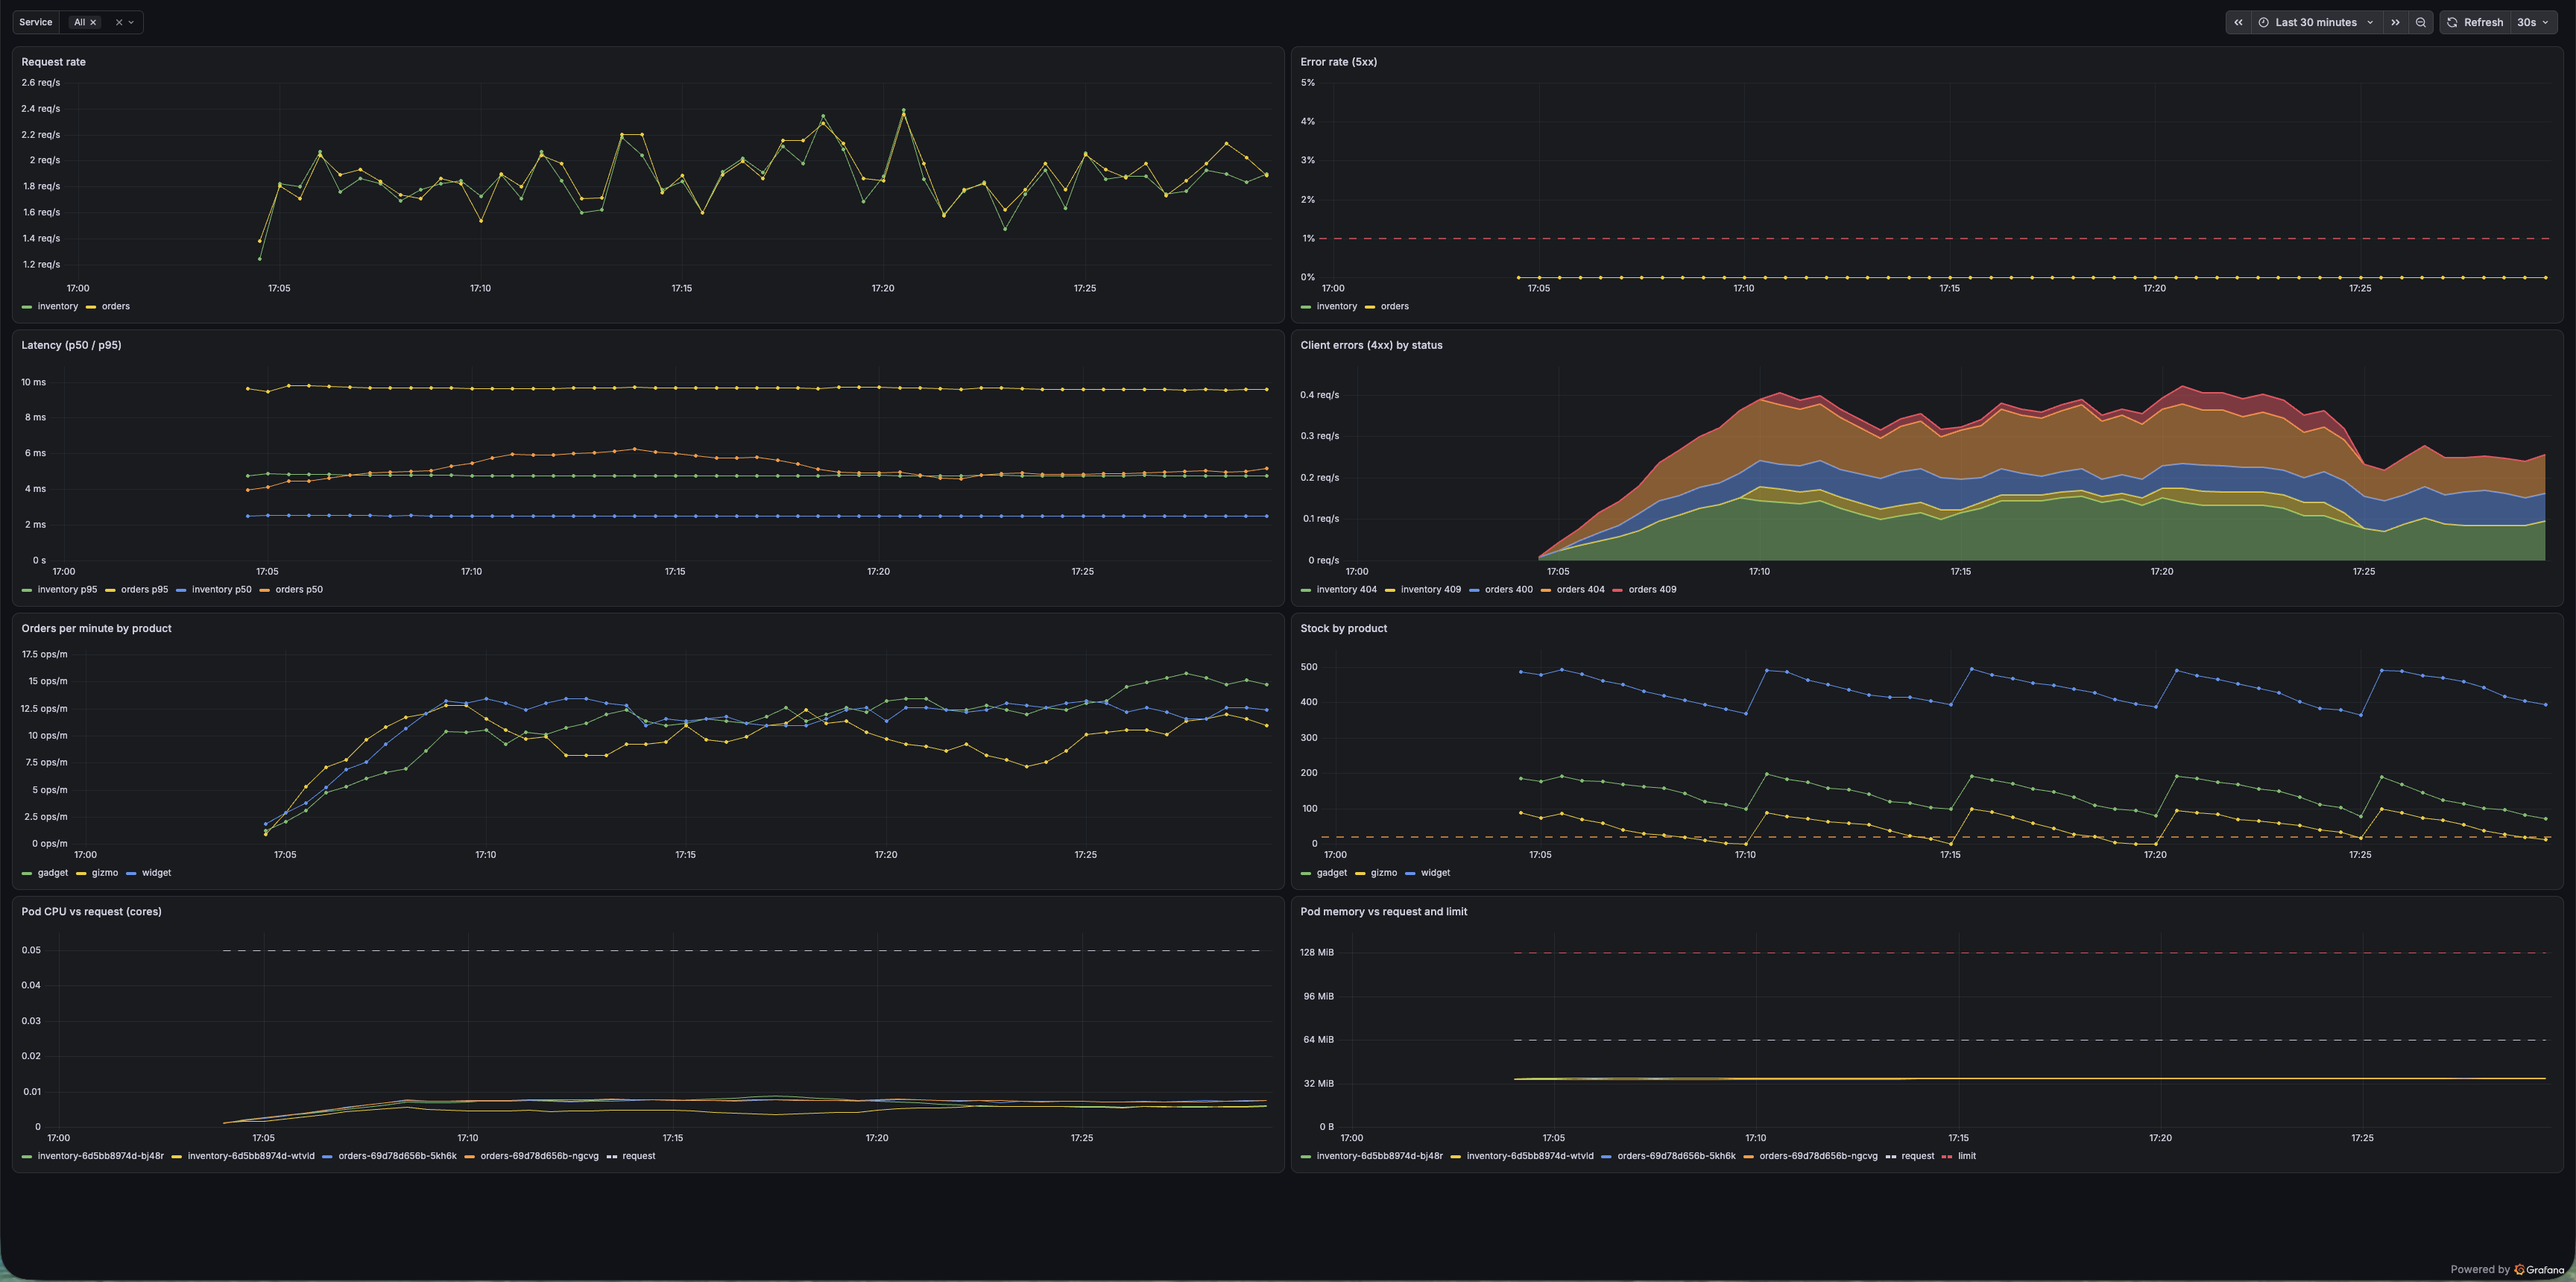
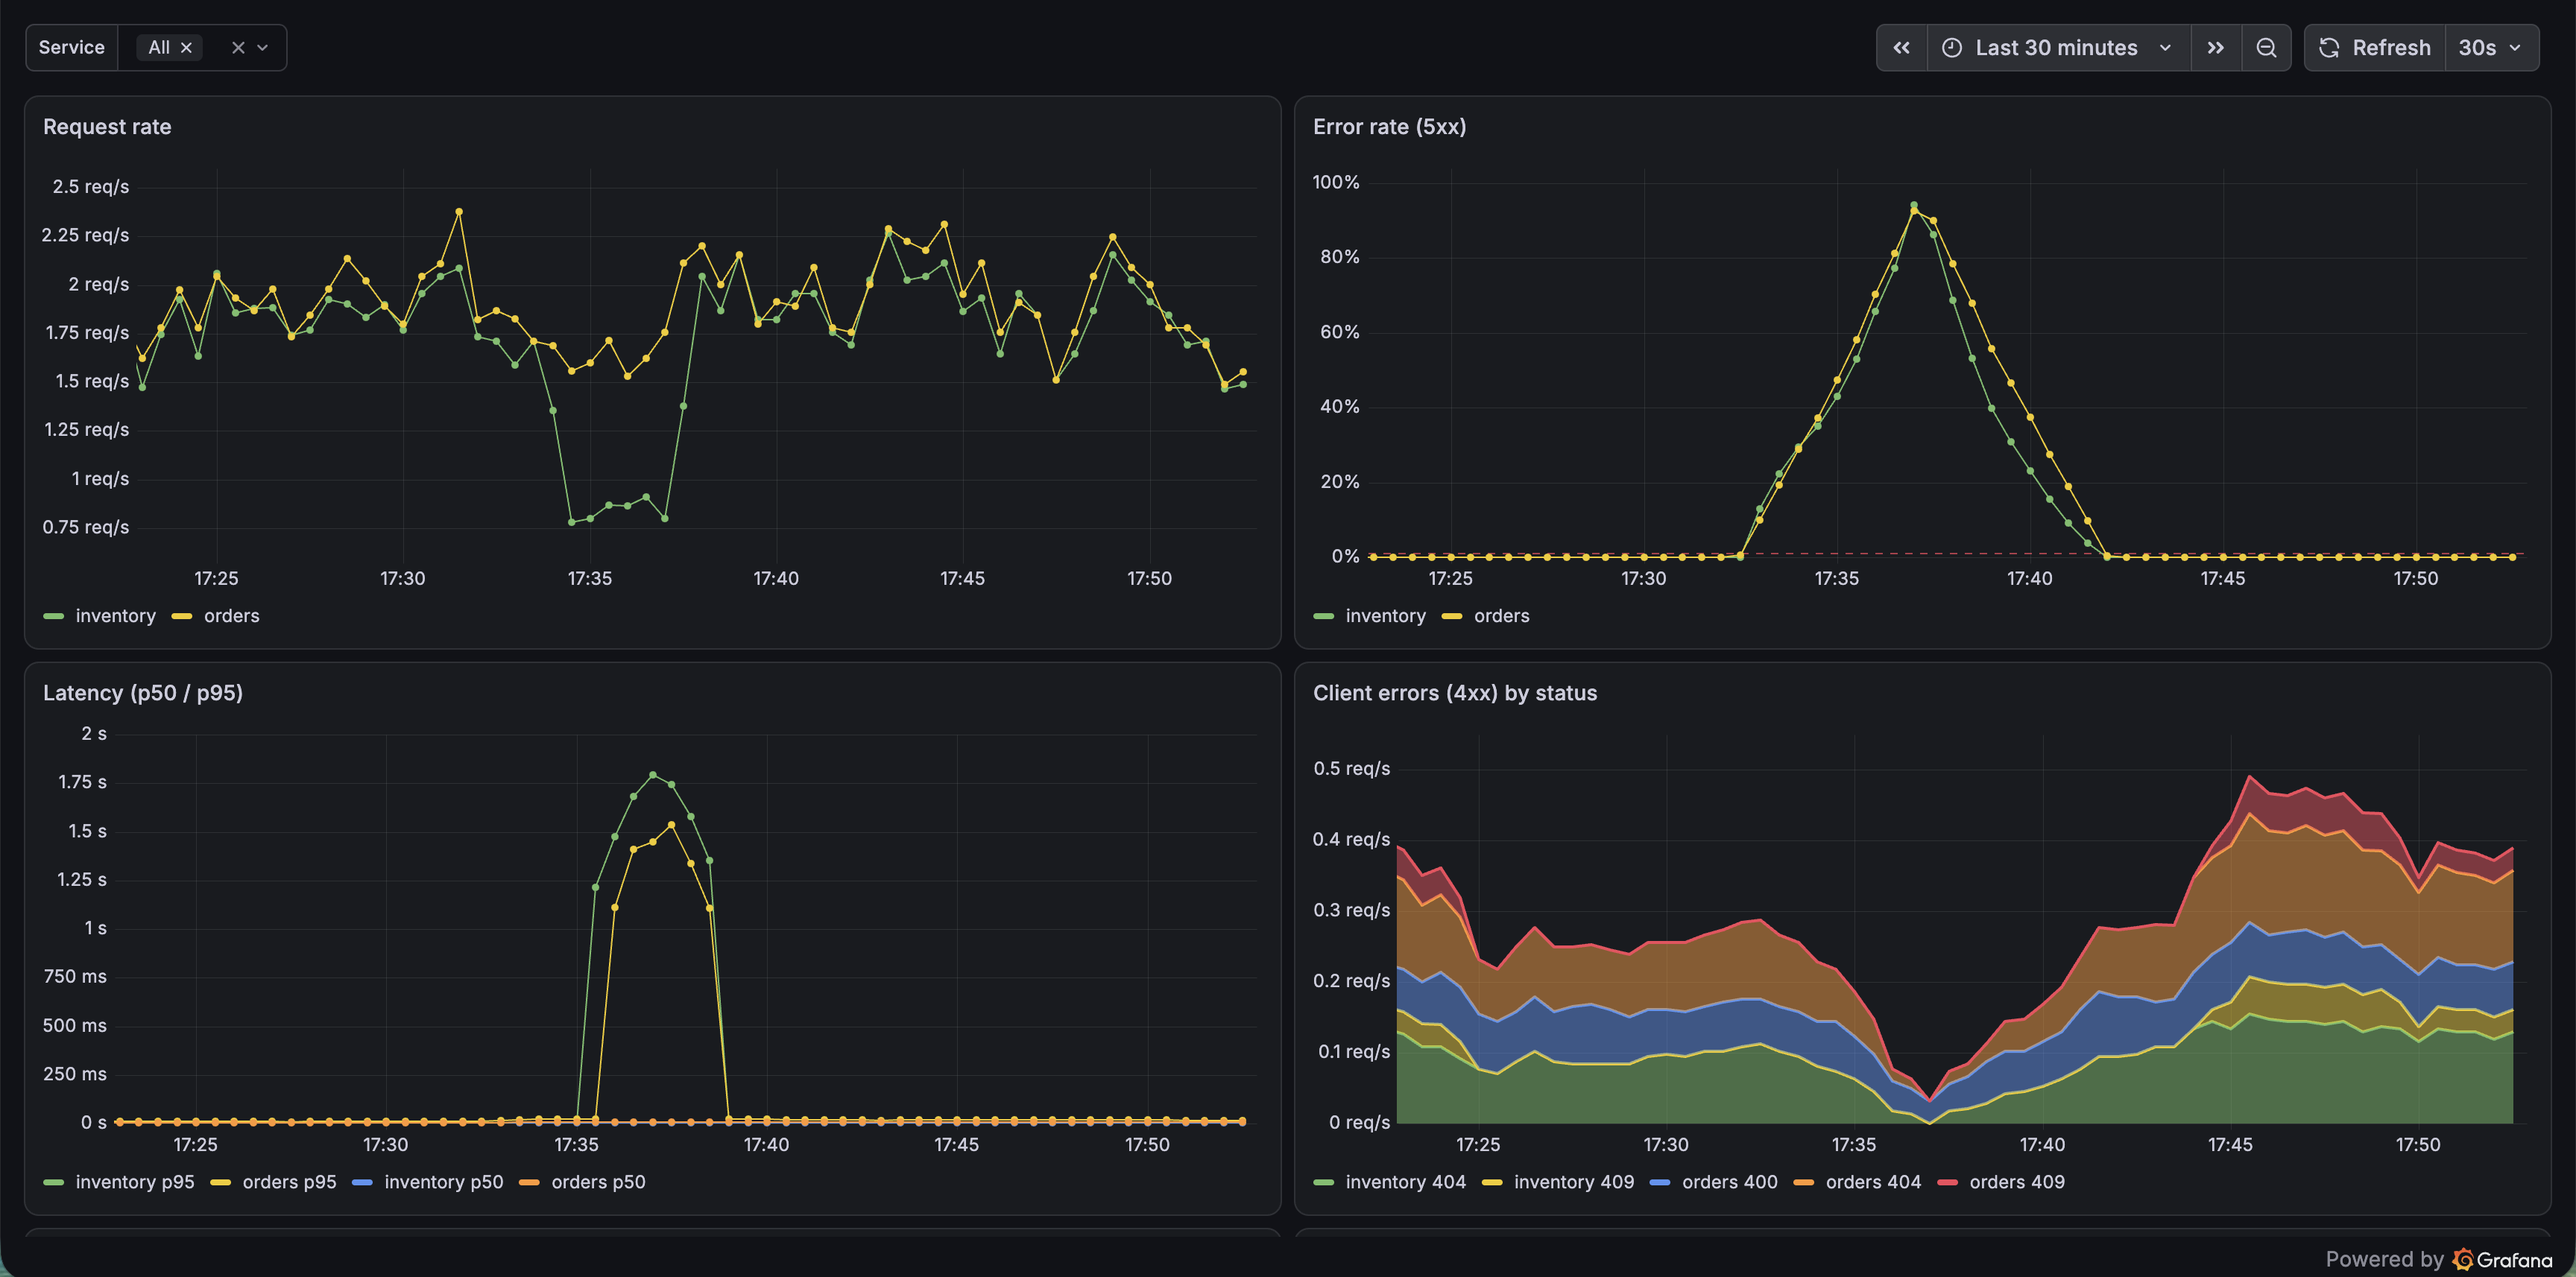
Readable screenshots, compact diagram, and corrected outage findings

diff --git a/README.md b/README.md
@@ -8,43 +8,30 @@ It runs on a local kind cluster: four apps (an orders API, an inventory service,
 
 The services expose RED metrics (rate, errors, duration) and business metrics, the load generator keeps realistic traffic flowing, and a Grafana dashboard shows service health, stock levels and each pod's resource use against its requests and limits. The whole stack comes up from a fresh clone with `make up`.
 
-![Shop service overview dashboard](docs/images/dashboard.png)
+![RED panels from the shop dashboard, including a Redis outage at 17:33](docs/images/dashboard.png)
 
 ## Architecture
 
 ```mermaid
-flowchart TB
-  subgraph monitoring["namespace: monitoring"]
-    dash["dashboard ConfigMap"] -.->|loaded by sidecar| grafana["Grafana"]
-    grafana -->|PromQL| prom["Prometheus"]
-    operator["Prometheus Operator"] -.->|scrape config| prom
-    ksm["kube-state-metrics"]
-    ne["node-exporter<br/>DaemonSet"]
-  end
-
+flowchart LR
   subgraph shop["namespace: shop"]
-    loadgen["loadgen<br/>Deployment"] -->|HTTP| orders["orders API<br/>Deployment ×2"]
-    restock["restock<br/>CronJob, every 5 min"]
-    orders -->|HTTP| inventory["inventory<br/>Deployment ×2"]
-    restock -->|POST /restock| inventory
-    inventory --> redis[("Redis<br/>Deployment")]
-    sm["ServiceMonitor"]
+    loadgen --> orders["orders ×2"] --> inventory["inventory ×2"] --> redis[(Redis)]
+    restock["restock CronJob"] --> inventory
+    sm[ServiceMonitor]
   end
 
-  subgraph node["every node"]
-    kubelet["kubelet<br/>with cAdvisor"]
+  subgraph monitoring["namespace: monitoring"]
+    grafana[Grafana] --> prom[Prometheus]
   end
 
-  sm -.->|read by| operator
-  prom -->|scrapes /metrics| orders
-  prom -->|scrapes /metrics| inventory
-  prom -->|scrapes| ksm
-  prom -->|scrapes| ne
-  prom -->|scrapes| kubelet
+  prom -.->|scrapes| orders
+  prom -.->|scrapes| inventory
+  prom -.->|scrapes| infra["kubelet, node-exporter,<br/>kube-state-metrics"]
+  sm -.->|targets| prom
 ```
 
 - **Traffic** flows from the load generator to orders, which calls inventory, which keeps the stock in Redis. Every call uses a Service name, resolved by cluster DNS.
-- **Metrics are pulled.** Prometheus scrapes each pod's `/metrics` endpoint every 15 seconds. The ServiceMonitor tells it which pods to scrape, and pod CPU and memory come from the kubelet's built-in cAdvisor.
+- **Metrics are pulled.** Prometheus scrapes each pod's `/metrics` endpoint every 15 seconds. The ServiceMonitor tells it which pods to scrape, through the Prometheus Operator. Pod CPU and memory come from the kubelet's built-in cAdvisor, and object state (such as ready replicas) from kube-state-metrics.
 - **Grafana** queries Prometheus. The dashboard is a JSON file in this repo, loaded into Grafana from a ConfigMap.
 
 ## What's in it
@@ -66,8 +53,9 @@ All three apps are small Python (FastAPI) services.
 ## Design decisions
 
 **Health checks**
-- **Readiness checks dependencies, liveness doesn't.** Inventory's readiness probe pings Redis, so when Redis is down its pods stop receiving traffic without being restarted, since a restart wouldn't fix Redis. Liveness only checks that the process answers, so a dependency blip can't restart every pod.
-- **Orders' readiness doesn't check inventory**, to avoid a cascading failure where an inventory outage takes orders out of service too. Scaling Redis to zero shows the result: within about 15 seconds inventory's pods go not ready and the Service stops sending them traffic, so inventory's request rate falls to zero, while orders stays up and returns clean 503s. The errors show up at the caller, and the broken service just goes quiet, which is why a drop in request rate is worth watching as well as the error rate.
+- **Readiness checks dependencies, liveness doesn't.** Inventory's readiness probe pings Redis, so when Redis is down its pods are taken out of the Service without being restarted, since a restart wouldn't fix Redis. Liveness only checks that the process answers, so a dependency blip can't restart every pod.
+- **Orders' readiness doesn't check inventory**, to avoid a cascading failure where an inventory outage takes orders out of service too.
+- **Readiness only stops new connections.** With Redis scaled to zero, inventory's pods went not ready within seconds, but kept receiving requests for the whole outage over connections orders had already opened (keep-alive), and answered them with slow 503s. Both services' error rates and latency climbed, and throughput dropped as the load generator waited on responses. Taking a pod out of a Service doesn't drain traffic that's already flowing, so callers that reuse connections need short timeouts, or a service mesh, to route around a bad pod.
 
 **Data and config**
 - **Redis is a Deployment with no persistent storage**, to keep the focus on the monitoring. Inventory reseeds the starting stock whenever Redis comes back empty. A production database would be a StatefulSet with persistent storage.
@@ -86,13 +74,13 @@ All three apps are small Python (FastAPI) services.
 
 ## Screenshots
 
+The full dashboard, adding business metrics (orders per minute and stock by product) and pod CPU and memory against requests and limits. Click to enlarge:
+
+![Full shop dashboard](docs/images/dashboard-full.png)
+
 Prometheus scraping both orders pods and both inventory pods through the ServiceMonitor:
 
 ![Prometheus targets](docs/images/targets.png)
-
-The dashboard a couple of minutes after Redis is scaled to zero. Orders keeps serving and returns 503s, while inventory stops receiving traffic. Inventory's error rate is only worked out from the few requests it handled before going not ready, so it climbs as its earlier successful requests age out of the 5-minute window:
-
-![Dashboard during a Redis outage](docs/images/redis-outage.png)
 
 ## Running it
 
